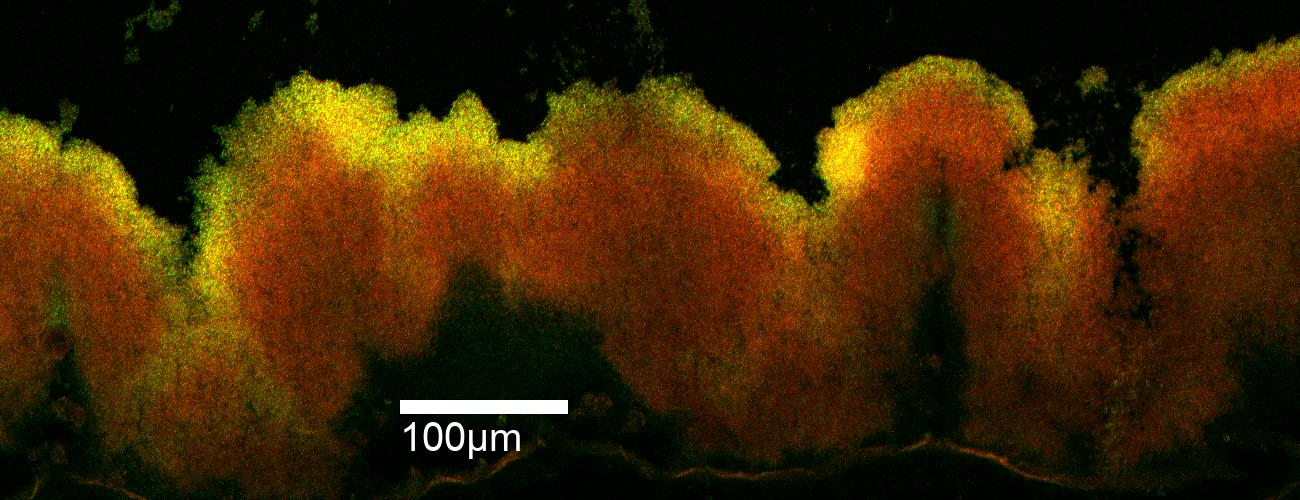
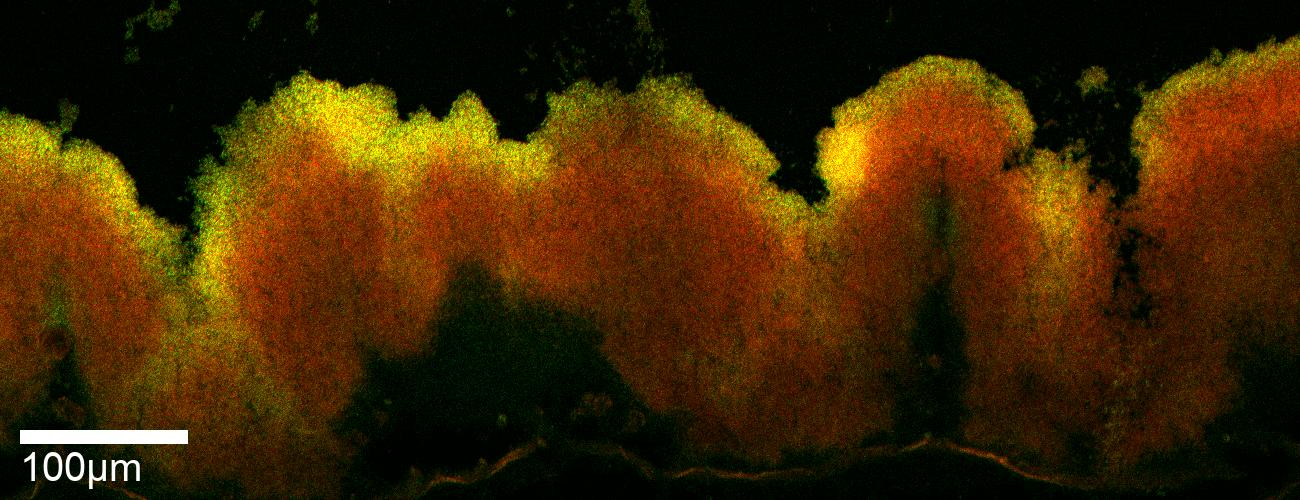
figure 10

Changed region(s): [[0.0, 0.84, 0.1538, 0.96], [0.3077, 0.78, 0.4615, 0.9]]

diff --git a/figures/sup_2xqp/sup_2xqp.py b/figures/sup_2xqp/sup_2xqp.py
@@ -1,0 +1,184 @@
+import os.path
+import matplotlib as mpl
+import matplotlib.pyplot as plt
+import matplotlib.gridspec as gs
+#import subfig_dist_joy
+from lib import filedb
+#import os.path
+import scipy.stats
+import numpy as np
+import pandas as pd
+from lib import strainmap
+
+import os.path
+from lib import figure_util
+figure_util.apply_style()
+
+
+#import matplotlib.gridspec as gridspec
+from figures.sup_63x_gradients import subfig_plot_grad_errors 
+from figures.figure_63x_sigb_histo import joy_plots_of_gradients
+
+figure_util.apply_style()
+from lib.figure_util import timecolor
+
+def main():
+    #fig = plt.figure()
+    # grid = gs.GridSpec(1, 3, width_ratios=[1,1,1])#, height_ratios=[1.0, 0.8])
+    # joy_gs  = gs.GridSpecFromSubplotSpec(1, 2, 
+    #                                 width_ratios=[1,1],
+    #                                 subplot_spec = grid[0,1:],
+    #                                 wspace=0.3)
+    fig, ax = plt.subplots(1,3)
+
+    #all_axes = plt.subplot(grid[0])
+    all_axes = ax[0] 
+    ax1 = ax[1] 
+    ax2 = ax[2]
+    ax1.get_shared_x_axes().join(ax1, ax2)
+    
+    # ax1 = fig.add_subplot(joy_gs[0])
+    # ax2 = fig.add_subplot(joy_gs[1], sharey=ax1)
+    ax = np.array([[ax1], [ax2]])
+
+    error = "quantile75"
+    normalisation = [#("unnormed", (0, 8e3), "P$_{sigB}$-YFP (AU)"), 
+                     ("ratio", (0, 1), "YFP/RFP Ratio")]
+    species = ["jlb095"]
+    times = [24, 48, 72, 96]
+    #basedir = "figures/figure_sigb_10x_grad/"
+    this_dir = os.path.join(os.path.dirname(__file__))
+    base = os.path.join(this_dir, "../../datasets/LSM700_63x_sigb/gradients")
+    # alldf = pd.read_hdf(os.path.join(base, "single_cell_data.h5"))
+    #files = filedb.get_filedb(os.path.join(base, "file_list.tsv"))
+
+    plotset = {"linewidth":1, } #"alpha":0.3}
+    (norm, ylim, ylabel) = normalisation[0]
+    for s, spec in enumerate(species):
+        args = (all_axes, base, norm, ylim, error, spec, times, plotset)
+        all_axes = subfig_plot_grad_errors.get_figure(*args)
+        all_axes.set_xlim(0, 150) 
+        all_axes.set_ylim(*ylim)
+        all_axes.set_ylabel(ylabel)
+        #all_axes.set_title(figure_util.strain_label[spec.upper()])
+        all_axes.set_xlabel("Distance from top of biofilm (μm)")
+
+    #Create legend from custom artist/label lists
+    artist = [ plt.Line2D((0,1),(0,0), color=timecolor[t]) for t in times]
+    labels = [ "{0} hours".format(t) for t in times]
+    all_axes.legend(artist, labels)
+
+    ################
+    ## Joy plot
+
+    curve_score_methods = {
+        "mean": ("Mean", 
+               (0.0, 4.0),
+               lambda d, h, b: np.mean(d)),
+        "cv": ("Coefficient of variation", 
+               (0.3, 0.8),
+               lambda d, h, b: scipy.stats.variation(d)),
+        "skew_normed": ("Skew", 
+               (0.0, 2.9),
+               lambda d, h, b: scipy.stats.skew(d, bias=False)),
+    }
+
+    plot_colors = [ #"mean",
+                    #"std",
+                    "cv",
+                    "skew_normed", # same as pandas 
+                    ]
+
+    basedir = os.path.join(this_dir, "../../datasets/LSM700_63x_sigb")
+    cell_df = pd.read_hdf(os.path.join(basedir, "single_cell_data.h5"), "cells")
+    cell_df = cell_df[cell_df["distance"] > 2]
+    time = 48 #.0
+    location = "center"
+    file_df = filedb.get_filedb(os.path.join(basedir, "file_list.tsv"))
+    strain_map, des_strain_map = strainmap.load()
+
+    percentile = 0
+    # green_chan = "meannorm_green"
+    # red_chan = "meannorm_red"
+    rmax = 6.5
+    gmax = 6.5 #0.4
+    green_chan = "green_raw_bg_mean"
+    red_chan = "red_raw_bg_mean"
+    rmax = 50000
+    gmax = 10000
+    strains = [ #("wt_sigar_sigby", red_chan, rmax, "WT\n P$_{sigA}$-RFP"), 
+                #("wt_sigar_sigby", green_chan,    gmax,  "WT\n P$_{sigB}$-YFP"),
+                #("delqp_sigar_sigby", green_chan, gmax,  "ΔrsbQP\n P$_{sigB}$-YFP"),
+                #("delru_sigar_sigby", green_chan, gmax,  "ΔrsbRU\n P$_{sigB}$-YFP")]
+                ("2xqp_sigar_sigby", green_chan,  gmax,  "2$\\times$rsbQP\n P$_{sigB}$-YFP")]
+
+    #fig, ax = plt.subplots(len(plot_colors), len(strains),  sharey=True) 
+    for c, (strain, chan, max_val, name) in enumerate(strains):
+        strain_num = des_strain_map[strain]
+        distances, sbins, histograms, stats = joy_plots_of_gradients.get_strain_result(file_df, cell_df, time, location,
+                                                                 strain_num, chan, max_val, percentile, curve_score_methods)
+        for r, k in enumerate(plot_colors):
+            color = figure_util.strain_color[strain_num.upper()]
+            ax[r, c], mv, leglist = joy_plots_of_gradients.plot_curves(ax[r,c], color, distances, sbins, histograms, stats, k)
+
+            if c == len(strains)-1:
+                posn = ax[r,c].get_position()
+                cbax = fig.add_axes([posn.x0 + posn.width + 0.0005, posn.y0, 0.015, posn.height])
+                label = curve_score_methods[k][0]
+                min_zval = curve_score_methods[k][1][0]
+                max_zval = curve_score_methods[k][1][1]
+                sm = plt.cm.ScalarMappable(cmap=plt.get_cmap("viridis"), norm=plt.Normalize(vmin=min_zval, vmax=max_zval))
+                sm._A = []
+                _ = plt.colorbar(sm, cax=cbax)#, fig=fig)
+                cbax.set_ylabel(label, rotation=-90, labelpad=8)
+                cbax.tick_params(direction='out')
+
+
+            #if r == 0:
+                #ax[r,c].set_title(name, fontsize=6)
+        
+            ax[r,c].set_xlim(0, max_val)
+    ax2.get_yaxis().set_ticklabels([])
+    leg = ax[0, -1].legend(leglist, ["Mode", "Mean"], loc='lower left', bbox_to_anchor=(0.84, 0.97))
+    leg.set_zorder(400)
+
+    for a in ax.flatten():
+        a.tick_params(direction='out')
+    ax1.set_ylabel("Distance from biofilm top (μm)")
+    ax1.set_xlabel('Normalized fluorescence') 
+    ax2.set_xlabel('Normalized fluorescence') 
+                    # xy=(0,0),
+                    # xytext=(0.5, 0.04),  
+                    # textcoords='figure fraction',
+                    # #arrowprops=dict(facecolor='black', shrink=0.05),
+                    # horizontalalignment='center', verticalalignment='center',
+                    # fontsize="medium", color=mpl.rcParams['axes.labelcolor']
+                    #)
+
+
+
+
+
+    for a, l in zip([all_axes, ax1, ax2], figure_util.letters):
+        a.annotate(l, xy=(0,0),
+                    xytext=(-0.27, 1.05),  
+                    textcoords='axes fraction',
+                    #arrowprops=dict(facecolor='black', shrink=0.05),
+                    horizontalalignment='center', verticalalignment='top',
+                    fontsize=figure_util.letter_font_size, color="black"
+                    )
+
+
+    filename = "sup_2xQP_prog"
+    width, height = figure_util.get_figsize(figure_util.fig_width_big_pt,wf=1.0, hf=0.4  )
+    fig.set_size_inches(width, height)
+    #fig.subplots_adjust(left=0.09, right=0.98, top=0.95, bottom=0.17, wspace=0.4)
+    fig.tight_layout()
+    figure_util.save_figures(fig, filename, ["pdf", "png"], this_dir)
+
+
+if __name__ == "__main__":
+    main()
+
+
+

diff --git a/figures/figure_sigb_10x_grad/image_maker.py b/figures/figure_sigb_10x_grad/image_maker.py
@@ -31,7 +31,7 @@ for i, (strain, imgpath, slice_it) in enumerate(biofilm_images):
         sbl = 100 # scale bar in um
         height, width, _ = im.shape
         #height - 50 
-        im = lib.figure_util.draw_scale_bar(im, height-100, 400, sbl/PX_TO_UM, 14, "{0}μm".format(sbl)) 
+        im = lib.figure_util.draw_scale_bar(im, height-70, 20, sbl/PX_TO_UM, 14, "{0}μm".format(sbl)) 
 
     outpath = os.path.join(this_dir, "images", os.path.splitext(imgpath)[0] + ".jpg")
     print(outpath)

diff --git a/figures/figure_sigb_10x_grad/fig_10x_grad_rot.py b/figures/figure_sigb_10x_grad/fig_10x_grad_rot.py
@@ -70,7 +70,7 @@ for c, strain in enumerate(data_plots):
 
 leg = ax.legend(loc="lower right")
 leg.get_frame().set_alpha(1.0)
-ax, leg = figure_util.shift_legend(ax, leg, yshift=0.06)
+ax, leg = figure_util.shift_legend(ax, leg, yshift=0.06,xshift=0.05)
 
 ax.set_xlim(0.09, 0.29)
 ax.set_ylim(150, 0)
